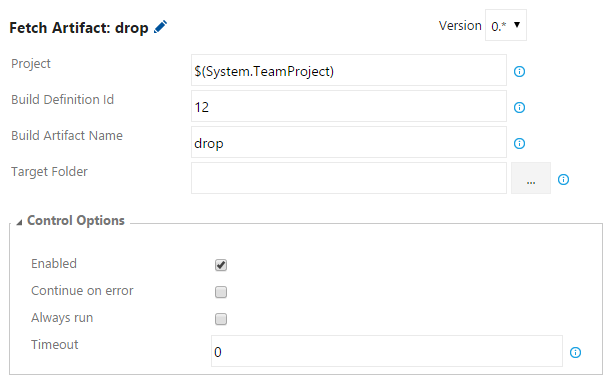
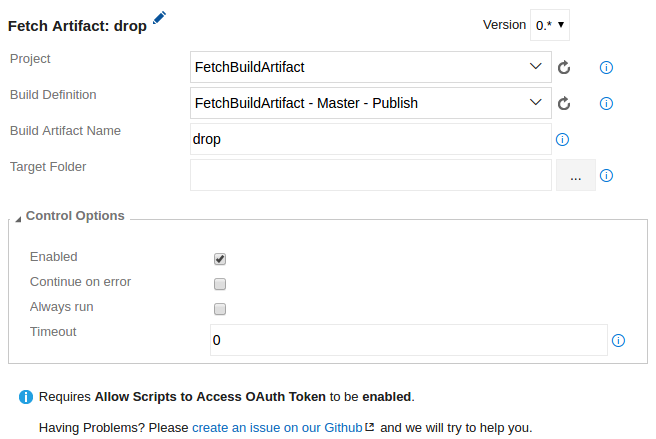
updates overview and images

diff --git a/fetch-build-artifact-task/index.ts b/fetch-build-artifact-task/index.ts
@@ -38,7 +38,7 @@ async function run() {
         let project = task.getInput('project', false);
         if (stringIsNullOrEmpty(project)) {
             task.debug('project is null or empty');
-            project = process.env['SYSTEM_TEAMPROJECTID'];
+            project = process.env['SYSTEM_TEAMPROJECT'];
             task.debug('project defaulting to ' + project);
             task.debug('project=' + project);
         }

diff --git a/overview.md b/overview.md
@@ -13,8 +13,8 @@ Add a new **Fetch Build Artifacts** task from the **Utility** category...
 
 ![Parameters](images/screenshot.png)
 Parameters include:
-* **Project**: Project from where to fetch the build artifact. Leaving it blank defaults to the current project and is equal to using <code>$(System.TeamProject)</code>.
-* **Build Definition Id**: Id of build definition from where to fetch build artifact. Must be a valid numerical value, eg. '12', and an existing build definition.
+* **Project**: Project from where to fetch the build artifact.
+* **Build Definition**: Build definition from where to fetch build artifact.
 * **Build Artifact Name**: Name of the artifact to fetch, eg. 'drop'.
 * **Target Directory**: The directory where to download the artifact. Must be an existing directory. Leaving it blank defaults to source root directory and is equal to using <code>$(Build.SourcesDirectory)</code>.
 
